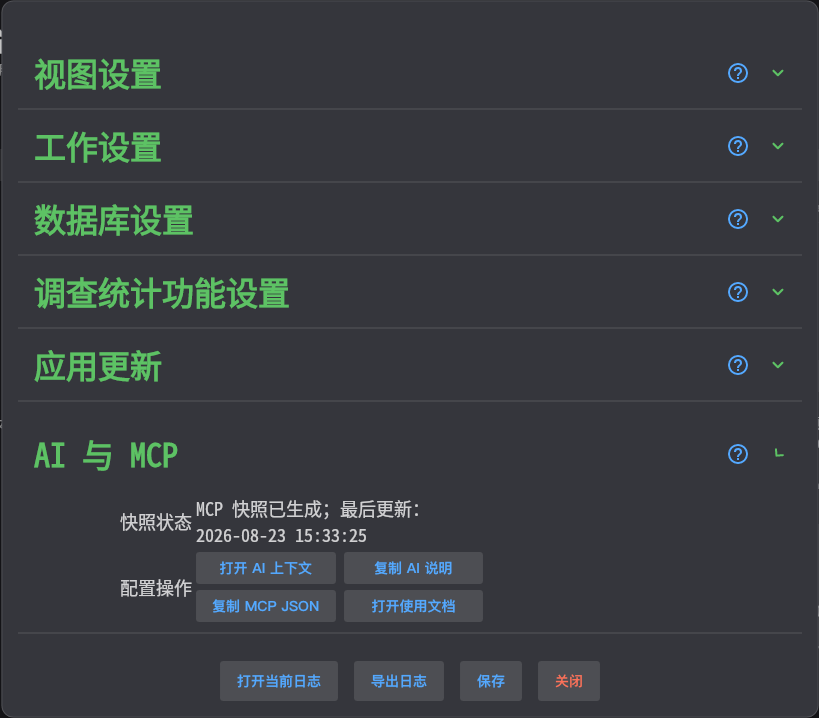
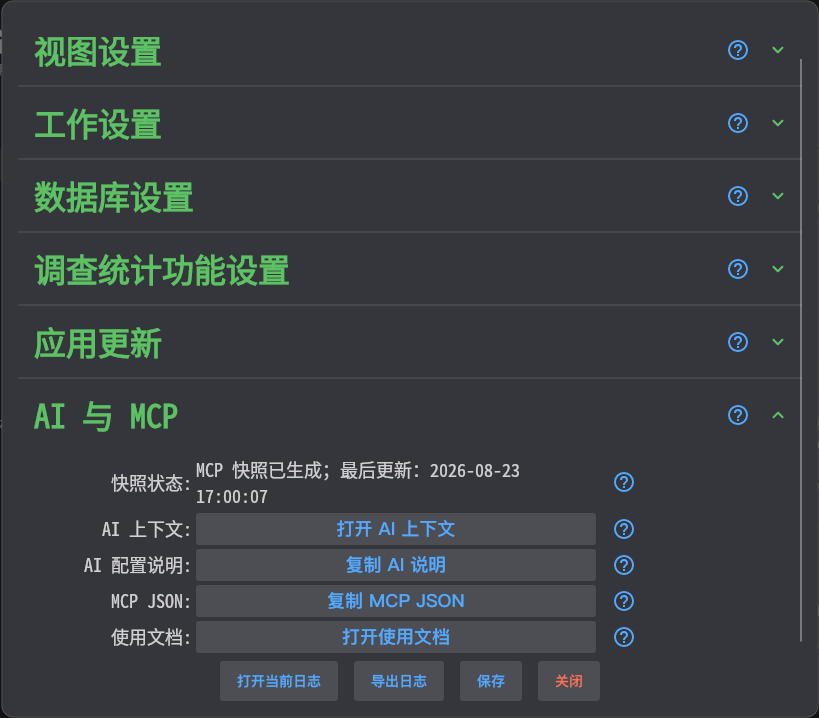
fix: 统一 AI 与 MCP 设置样式
将 AI 与 MCP 纳入标准设置树，统一分组标题、设置行、标签宽度、操作按钮和帮助提示，并保证分组位于设置列表末尾。

补充 Linux CDP 截图滚动与布局回归，更新用户手册截图和相关设计、测试文档。验证解决方案构建无警告错误，相关测试 20/20、ui-extended-full 11/11 通过。

diff --git a/Diary.App/ViewModels/SettingsViewModel.cs b/Diary.App/ViewModels/SettingsViewModel.cs
@@ -25,6 +25,9 @@ public partial class SettingsViewModel : ViewModelBase, IDialogContext
     private readonly DiagnosticLogExportService _logExport;
     private readonly AppFontService _fontService;
     private readonly McpSetupService _mcpSetupService;
+    private McpStatusSetting _mcpStatusSetting = null!;
+    private McpActionSetting _copyAiInstructionsSetting = null!;
+    private McpActionSetting _copyGenericConfigurationSetting = null!;
     [ObservableProperty] private SettingGroup _settingsTree = new("Root");
     [ObservableProperty] private bool _hasMcpSnapshot;
     [ObservableProperty] private string _mcpSnapshotStatus = string.Empty;
@@ -53,6 +56,37 @@ public partial class SettingsViewModel : ViewModelBase, IDialogContext
     {
         var app = BaseApp.Instance;
         SettingTreeBuilder.BuildTree(SettingsTree, app.AppConfig, app);
+        var mcpGroup = new SettingGroup(
+            "AI 与 MCP",
+            "生成可直接交给 AI 的 stdio MCP 配置说明；配置只引用用户确认过的只读快照，不包含数据库凭据或快照正文。");
+        _mcpStatusSetting = new McpStatusSetting(
+            "快照状态",
+            "显示只读 MCP 快照是否存在及最后更新时间。");
+        _copyAiInstructionsSetting = new McpActionSetting(
+            "AI 配置说明",
+            "复制包含 stdio 启动方式、工具列表和安全要求的 Markdown。",
+            "复制 AI 说明",
+            CopyMcpAiInstructionsCommand);
+        _copyGenericConfigurationSetting = new McpActionSetting(
+            "MCP JSON",
+            "复制通用 mcpServers.diary command/args JSON 配置。",
+            "复制 MCP JSON",
+            CopyGenericMcpConfigurationCommand);
+        mcpGroup.Children.Add(_mcpStatusSetting);
+        mcpGroup.Children.Add(new McpActionSetting(
+            "AI 上下文",
+            "保存当前程序设置并打开 AI 上下文；不会自动生成快照。",
+            "打开 AI 上下文",
+            SaveAndOpenAiContextCommand,
+            primary: true));
+        mcpGroup.Children.Add(_copyAiInstructionsSetting);
+        mcpGroup.Children.Add(_copyGenericConfigurationSetting);
+        mcpGroup.Children.Add(new McpActionSetting(
+            "使用文档",
+            "打开 AI 脚本上下文与本地 MCP 使用指南。",
+            "打开使用文档",
+            OpenMcpGuideCommand));
+        SettingsTree.Children.Add(mcpGroup);
         SettingsTree.Load();
     }
 
@@ -206,6 +240,9 @@ public partial class SettingsViewModel : ViewModelBase, IDialogContext
     {
         HasMcpSnapshot = _mcpSetupService.SnapshotExists;
         McpSnapshotStatus = _mcpSetupService.SnapshotStatus;
+        _mcpStatusSetting.Status = McpSnapshotStatus;
+        _copyAiInstructionsSetting.IsEnabled = HasMcpSnapshot;
+        _copyGenericConfigurationSetting.IsEnabled = HasMcpSnapshot;
     }
 
 }

diff --git a/Diary.App/ViewModels/McpSettingModels.cs b/Diary.App/ViewModels/McpSettingModels.cs
@@ -1,0 +1,26 @@
+using System.Windows.Input;
+using CommunityToolkit.Mvvm.ComponentModel;
+using Diary.GUIBase.ViewModels;
+
+namespace Diary.App.ViewModels;
+
+public sealed partial class McpStatusSetting(string title, string helpTip)
+    : SettingItemModel(title, helpTip)
+{
+    [ObservableProperty] private string _status = string.Empty;
+}
+
+public sealed partial class McpActionSetting(
+    string title,
+    string helpTip,
+    string text,
+    ICommand command,
+    bool primary = false)
+    : SettingItemModel(title, helpTip)
+{
+    [ObservableProperty] private bool _isEnabled = true;
+
+    public string Text { get; } = text;
+    public ICommand Command { get; } = command;
+    public bool Primary { get; } = primary;
+}

diff --git a/Docs/CHANGELOG.md b/Docs/CHANGELOG.md
@@ -5,7 +5,7 @@
 ## 未发布
 
 日期：2026-08-23
-- 脚本管理新增 AI 上下文页，可选择并预览标签、附加字段、模板、Tracker 安全摘要、保存查询和只读 Host 能力，导出 Markdown/JSON；事项正文默认关闭并受日期、数量和文本预算限制。新增版本化只读快照与独立 stdio MCP，在用户授权快照内提供六个数据工具，并提供不会加载或执行源码的 `diary_validate_script` C#/Lua/Python 编译校验工具；不连接数据库或暴露写 API、凭据和标签 metadata。程序设置可显示快照状态、复制通用 JSON 或可直接交给 AI 的配置说明，并保存设置后跳转到 AI 上下文。MCP 及全部显式 Exe/WinExe 测试 Runner 统一关闭 Windows apphost CET 标记。补充 Linux CDP 的授权、预览、快照和配置复制回归，并将隔离示例数据截图加入用户手册。
+- 脚本管理新增 AI 上下文页，可选择并预览标签、附加字段、模板、Tracker 安全摘要、保存查询和只读 Host 能力，导出 Markdown/JSON；事项正文默认关闭并受日期、数量和文本预算限制。新增版本化只读快照与独立 stdio MCP，在用户授权快照内提供六个数据工具，并提供不会加载或执行源码的 `diary_validate_script` C#/Lua/Python 编译校验工具；不连接数据库或暴露写 API、凭据和标签 metadata。程序设置以统一的标准设置分组和设置行显示快照状态、复制通用 JSON 或可直接交给 AI 的配置说明，并保存设置后跳转到 AI 上下文。MCP 及全部显式 Exe/WinExe 测试 Runner 统一关闭 Windows apphost CET 标记。补充 Linux CDP 的授权、预览、快照、标准设置布局和配置复制回归，并将隔离示例数据截图加入用户手册。
 - 新增 Linux Debug UI/CDP 生命周期工具，支持 X11 或自动管理 Xvfb、隔离 profile、场景/插件 seed、`start/status/smoke/run/stop` 和日志定位；统一点击焦点与快捷键字符注入语义，核心套件日期断言不再依赖区域格式，Linux X11 下 core 14/14、smoke 与 extended 11/11 已通过。
 - 修复年份菜单错误使用周范围、标签重命名不落库，以及数据库删除失败后 UI 仍移除工作项或标签的问题。
 - 退出清理失败后可再次尝试；未知 UI 未处理异常不再被全局吞掉；统计刷新使用后台快照和 generation 防止旧结果覆盖；自动化事件去重缓存改为有界。

diff --git a/Docs/AiScriptContextDesign.md b/Docs/AiScriptContextDesign.md
@@ -84,7 +84,7 @@ V1 预算：事项最多 100 条；标题最多 2,000 字符；备注最多 4,00
 
 UI 的“生成预览”只更新内存预览；“刷新 MCP 快照”才写默认快照；Markdown/JSON 导出使用相同的内存对象和序列化器，保证三种输出范围一致。
 
-程序设置末尾的“AI 与 MCP”分组显示快照是否存在及最后更新时间，并提供“打开 AI 上下文”“复制 AI 说明”“复制 MCP JSON”和使用文档入口。复制按钮在快照不存在时禁用；跳转按钮只保存当前程序设置并打开披露页面，不自动创建快照或改变披露范围。
+程序设置末尾的“AI 与 MCP”作为 `SettingsTree` 的最后一个标准 `SettingGroup`，显示快照是否存在及最后更新时间，并以独立标准设置行提供“打开 AI 上下文”“复制 AI 说明”“复制 MCP JSON”和使用文档入口。状态行和操作行复用统一的 150px 标签、400px 内容区及帮助提示布局；复制按钮在快照不存在时禁用，跳转按钮只保存当前程序设置并打开披露页面，不自动创建快照或改变披露范围。
 
 配置说明固定描述 stdio transport、`command`、`--snapshot` 参数、七个工具名称和最小环境要求。路径通过 JSON 序列化器转义；生成内容不得包含快照正文、环境变量、凭据或数据库连接信息。
 

diff --git a/Docs/UiAutomationCoverage.md b/Docs/UiAutomationCoverage.md
@@ -106,7 +106,7 @@
 | 清单 | 功能 | 状态 | 证据或边界 |
 | --- | --- | --- | --- |
 | 8.1–8.3 | 设置分组、编辑、保存、丢弃和动态导航 | `Automated` | settings 覆盖 5 组设置和开发者导航重建 |
-| 8.1–8.3 | AI 与 MCP 快照状态、配置复制和跳转 | `Automated` | extended 在真实隔离快照上验证 AI 可读 Markdown、通用 JSON 复制，以及保存设置后直接打开 AI 上下文；内容格式另有单元测试 |
+| 8.1–8.3 | AI 与 MCP 快照状态、标准设置行、配置复制和跳转 | `Automated` | extended 在真实隔离快照上验证标准分组内五行内容完整可见、AI 可读 Markdown、通用 JSON 复制，以及保存设置后直接打开 AI 上下文；内容格式另有单元测试 |
 | 8.4 | 数据库配置入口 | `Automated` | settings/database-error 验证对话框和无效驱动安全失败 |
 | 8.4 | SQLite/PostgreSQL 真实备份与还原 | `Manual-Native` | 依赖原生目录/文件、外部工具和灾备环境；底层由集成测试覆盖 |
 | 8.5 | 数据迁移向导打开和安全取消 | `Automated` | settings 覆盖向导边界 |

diff --git a/Docs/AiScriptContextGuide.md b/Docs/AiScriptContextGuide.md
@@ -43,7 +43,7 @@ dotnet run --project Diary.Mcp -- --snapshot "/absolute/path/to/mcp-snapshot.jso
 
 ## 从程序设置复制配置
 
-刷新快照后，也可以重新打开“程序设置”，使用设置列表末尾的“AI 与 MCP”区域：
+刷新快照后，也可以重新打开“程序设置”，使用设置列表末尾的“AI 与 MCP”区域。该区域采用与其他程序设置一致的标准设置行，每项操作都有独立标签、按钮和帮助提示：
 
 - “打开 AI 上下文”：保存当前设置、显示脚本管理页并直接切换到披露页面；它不会自动生成快照。
 - “复制 AI 说明”：复制一段 Markdown，包含 stdio 语义、绝对路径、通用 JSON、工具列表和安全要求，可直接粘贴给 AI，让它转换为当前客户端需要的格式。
